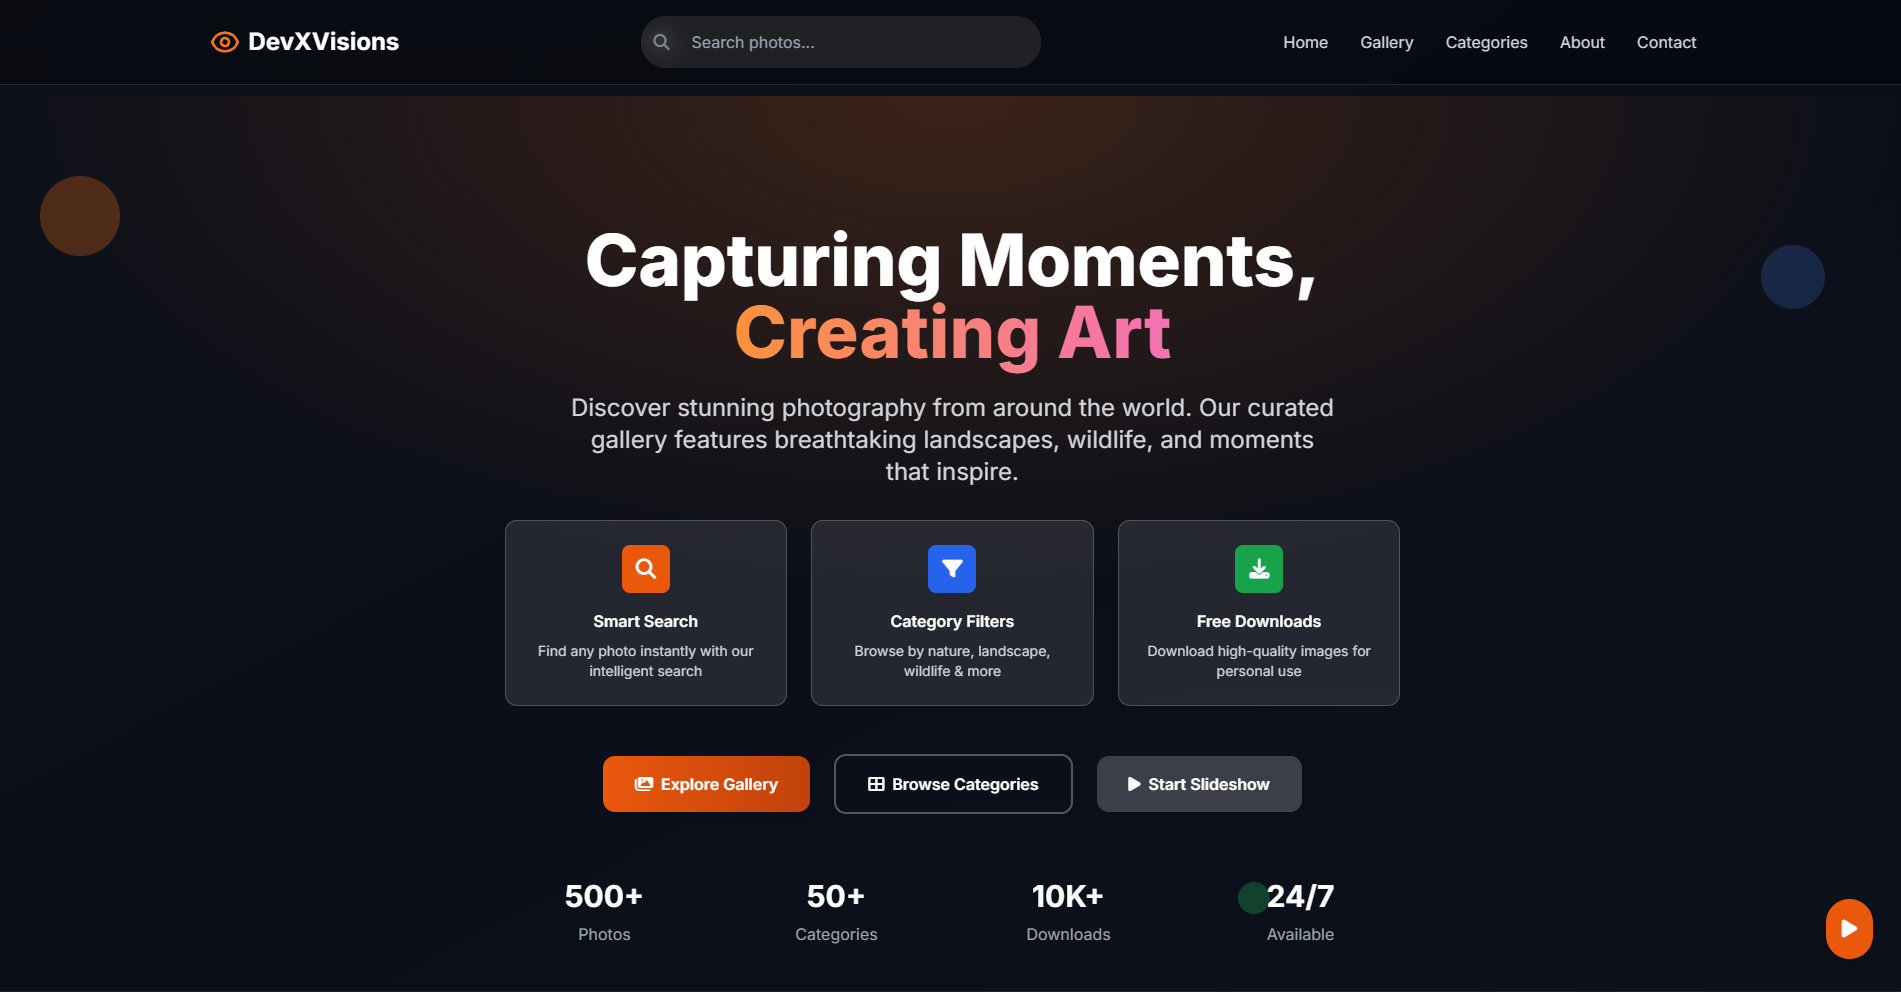
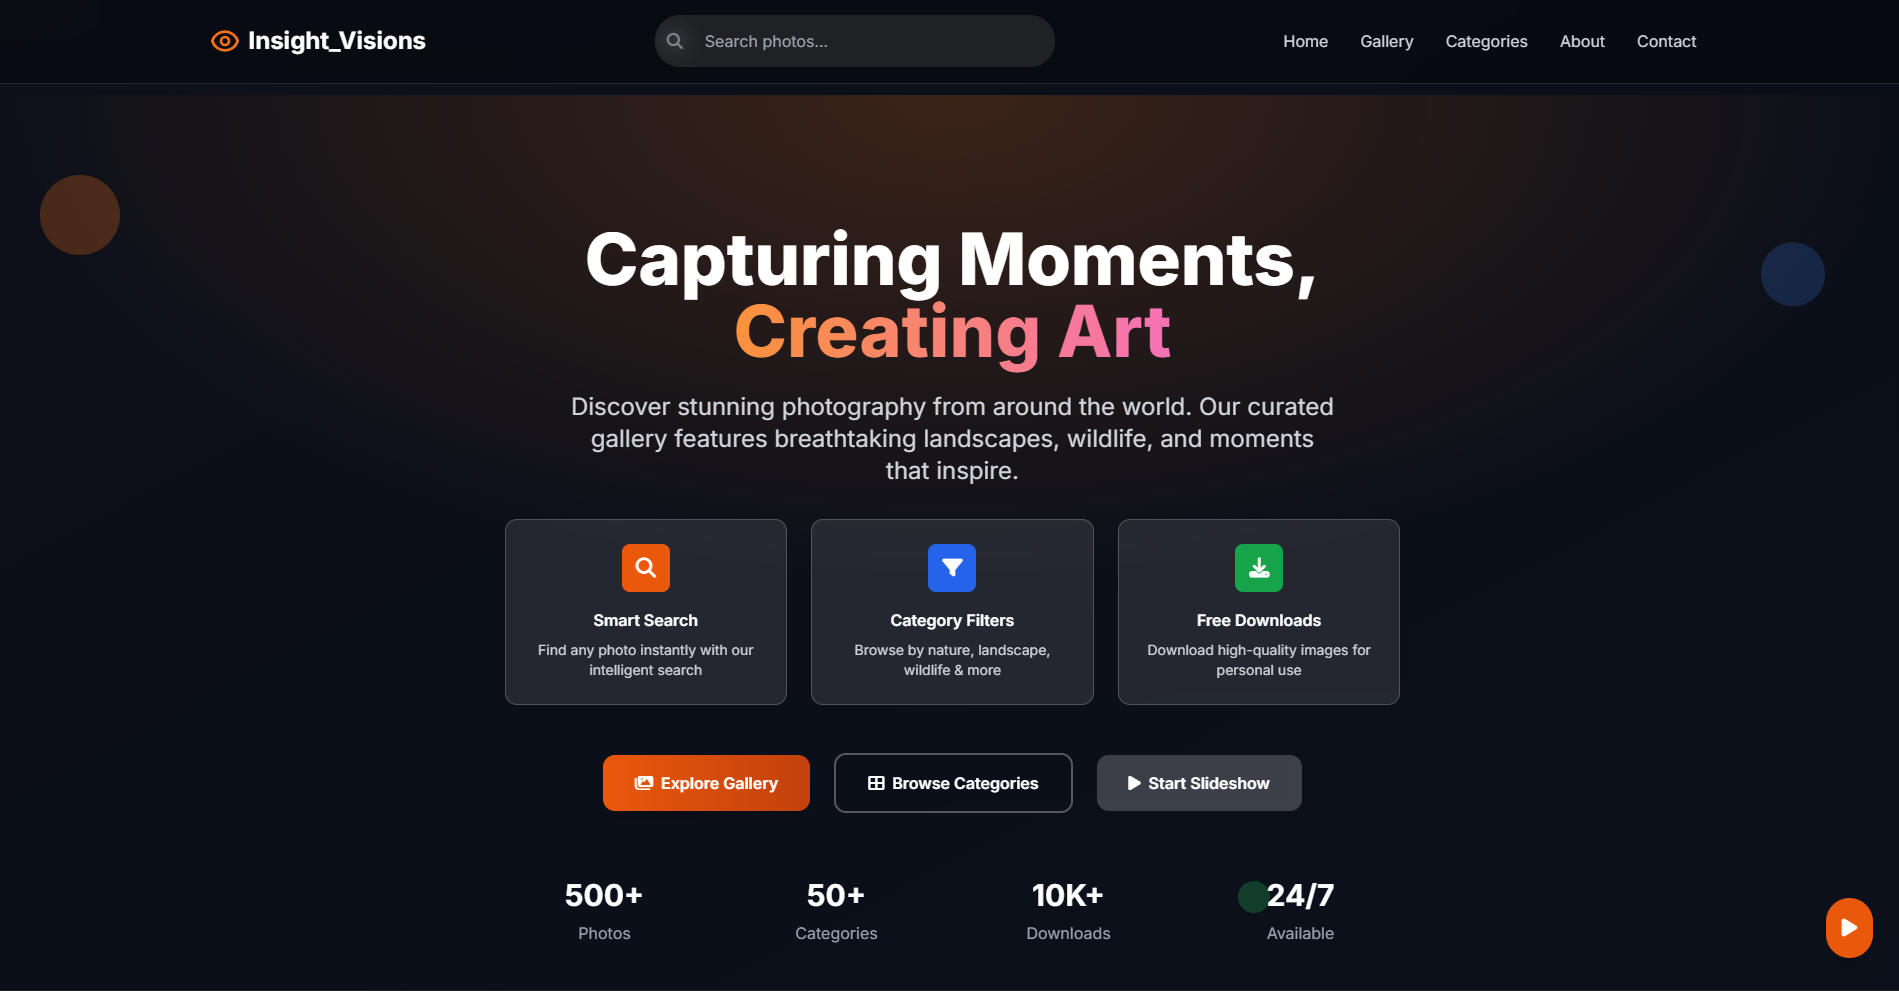
Finalizing WebName

diff --git a/index.html b/index.html
@@ -3,7 +3,7 @@
 <head>
     <meta charset="UTF-8">
     <meta name="viewport" content="width=device-width, initial-scale=1.0">
-    <title>DevXVisions | Modern Photo Gallery - Capturing Moments, Creating Art</title>
+    <title>Insight_Visions | Modern Photo Gallery - Capturing Moments, Creating Art</title>
     <meta name="description" content="Explore our curated collection of stunning photographs. Modern gallery with dark/light themes, advanced filtering, and interactive features.">
     <meta name="keywords" content="photo gallery, photography, art, portfolio, modern design, responsive">
     <script src="https://cdn.tailwindcss.com"></script>
@@ -25,7 +25,7 @@
         <div class="container mx-auto px-6 py-4 flex items-center justify-between">
             <div class="flex items-center space-x-2">
                 <svg class="w-8 h-8 text-orange-500" fill="none" stroke="currentColor" viewBox="0 0 24 24" xmlns="http://www.w3.org/2000/svg"><path stroke-linecap="round" stroke-linejoin="round" stroke-width="2" d="M15 12a3 3 0 11-6 0 3 3 0 016 0z"></path><path stroke-linecap="round" stroke-linejoin="round" stroke-width="2" d="M2.458 12C3.732 7.943 7.523 5 12 5c4.478 0 8.268 2.943 9.542 7-1.274 4.057-5.064 7-9.542 7-4.477 0-8.268-2.943-9.542-7z"></path></svg>
-                <h1 class="text-2xl font-bold text-white">DevXVisions</h1>
+                <h1 class="text-2xl font-bold text-white">Insight_Visions</h1>
             </div>
             
             <!-- Search Bar -->
@@ -835,7 +835,7 @@
             <div class="container mx-auto">
                 <div class="max-w-6xl mx-auto">
                     <div class="text-center mb-16">
-                        <h2 class="text-4xl md:text-5xl font-bold text-white mb-6">About DevXVisions Gallery</h2>
+                        <h2 class="text-4xl md:text-5xl font-bold text-white mb-6">About Insight_Visions Gallery</h2>
                         <p class="text-xl text-gray-300 max-w-3xl mx-auto">
                             We're passionate photographers dedicated to capturing the world's most beautiful moments 
                             and sharing them with fellow art enthusiasts.
@@ -846,7 +846,7 @@
                         <div>
                             <h3 class="text-3xl font-bold text-white mb-6">Our Mission</h3>
                             <p class="text-gray-300 mb-6 leading-relaxed">
-                                At DevXVisions Gallery, we believe that photography has the power to inspire, connect, and transform. 
+                                At Insight_Visions Gallery, we believe that photography has the power to inspire, connect, and transform. 
                                 Our mission is to curate and showcase exceptional photography that tells stories, captures emotions, 
                                 and celebrates the beauty of our world.
                             </p>
@@ -1126,8 +1126,8 @@
             <div class="grid grid-cols-1 md:grid-cols-4 gap-8">
                 <div class="col-span-1 md:col-span-2">
                     <div class="flex items-center space-x-2 mb-4">
-                        <svg class="w-8 h-8 text-orange-500" fill="none" stroke="currentColor" viewBox="0 0 24 24" xmlns="http://www.w3.org/2000/svg"><path stroke-linecap="round" stroke-linejoin="round" stroke-width="2" d="M15 12a3 3 0 11-6 0 3 3 0 016 0z"></path><path stroke-linecap="round" stroke-linejoin="round" stroke-width="2" d="M2.458 12C3.732 7.943 7.523 5 12 5c4.478 0 8.268 2.943 9.542 7-1.274 4.057-5.064 7-9.542 7-4.477 0-8.268-2.943-9.542-7z"></path></svg>
-                        <h3 class="text-2xl font-bold text-white">DevXVisions</h3>
+                        <svg class="w-8 h-8 text-orange-500" fill="none" stroke="currentColor" viewBox="0 0 24 24" xmlns="http://www.w3.org/2000/svg"><path stroke-linecap="round" stroke-linejoin="round" stroke-width="2" d="M15 12a3 3 0 11-6 0 3 3 0 616 0z"></path><path stroke-linecap="round" stroke-linejoin="round" stroke-width="2" d="M2.458 12C3.732 7.943 7.523 5 12 5c4.478 0 8.268 2.943 9.542 7-1.274 4.057-5.064 7-9.542 7-4.477 0-8.268-2.943-9.542-7z"></path></svg>
+                        <h3 class="text-2xl font-bold text-white">Insight_Visions</h3>
                     </div>
                     <p class="text-gray-400 mb-4">Capturing moments, creating art. A modern gallery experience inspired by clean design and innovative technology.</p>
                     <div class="flex space-x-4">
@@ -1168,8 +1168,9 @@
             </div>
             
             <div class="border-t border-gray-800 mt-8 pt-8 text-center text-gray-400">
-                <p>&copy; 2025 DevXVisions Gallery. All Rights Reserved.</p>
+                <p>&copy; 2025 Insight_Visions Gallery. All Rights Reserved.</p>
                 <p class="text-sm mt-2">Built with modern web technologies for the best user experience.</p>
+
             </div>
         </div>
     </footer>

diff --git a/main.js b/main.js
@@ -827,5 +827,5 @@ document.addEventListener('DOMContentLoaded', () => {
     // Initialize micro-interactions
     initializeMicroInteractions();
 
-    console.log('DevXVisions Gallery initialized successfully!');
+    console.log('Insight_Visions Gallery initialized successfully!');
 });

diff --git a/README.md b/README.md
@@ -1,12 +1,12 @@
-# 📸 DevXVisions Gallery
+# 📸 Insight_Visions Gallery
 
 ## 🌟 Project Description
 
-DevXVisions Gallery is a modern, responsive photo gallery website that showcases stunning photography from around the world. Built entirely with vanilla web technologies, this front-end project demonstrates clean code practices and modern web design principles. The gallery features an intuitive interface for browsing, filtering, and viewing high-quality images across various categories including landscapes, nature, wildlife, and water scenes.
+Insight_Visions Gallery is a modern, responsive photo gallery website that showcases stunning photography from around the world. Built entirely with vanilla web technologies, this front-end project demonstrates clean code practices and modern web design principles. The gallery features an intuitive interface for browsing, filtering, and viewing high-quality images across various categories including landscapes, nature, wildlife, and water scenes.
 
 ## 📷 Screenshot
 
-![DevXVisions Gallery Screenshot](./images/screenshot.png)
+![Insight_Visions Gallery Screenshot](./images/screenshot.png)
 *Main gallery interface showcasing the responsive grid layout and modern design*
 
 ## ✨ Key Features
@@ -44,12 +44,12 @@ Follow these simple steps to run the project locally:
 
 1. **Clone the repository**
    ```bash
-   git clone https://github.com/IleshDevX/devxvisions-gallery.git
+   git clone https://github.com/IleshDevX/insight-visions-gallery.git
    ```
 
 2. **Navigate to the project directory**
    ```bash
-   cd devxvisions-gallery
+   cd insight-visions-gallery
    ```
 
 3. **Open the project**
@@ -70,7 +70,7 @@ That's it! The gallery should now be running in your browser.
 ## 📁 Project Structure
 
 ```
-devxvisions-gallery/
+insight-visions-gallery/
 ├── index.html          # Main HTML file
 ├── style.css           # Custom CSS styles
 ├── main.js            # JavaScript functionality
@@ -118,5 +118,5 @@ devxvisions-gallery/
 <div align="center">
   <p>⭐ Star this repository if you found it helpful!</p>
   <p>Made with ❤ and vanilla JavaScript</p>
-  <p>Made by IleshdevX </p>
+  <p>Made by IleshDevX </p>
 </div>
